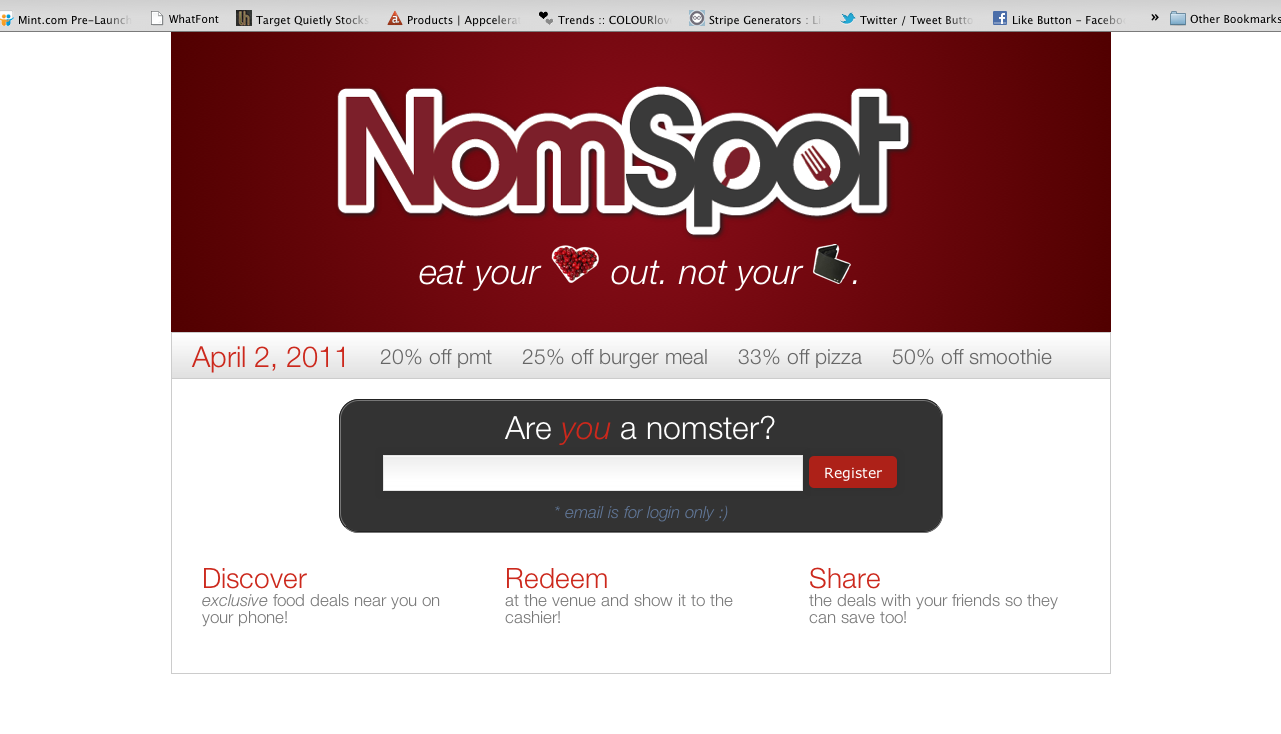
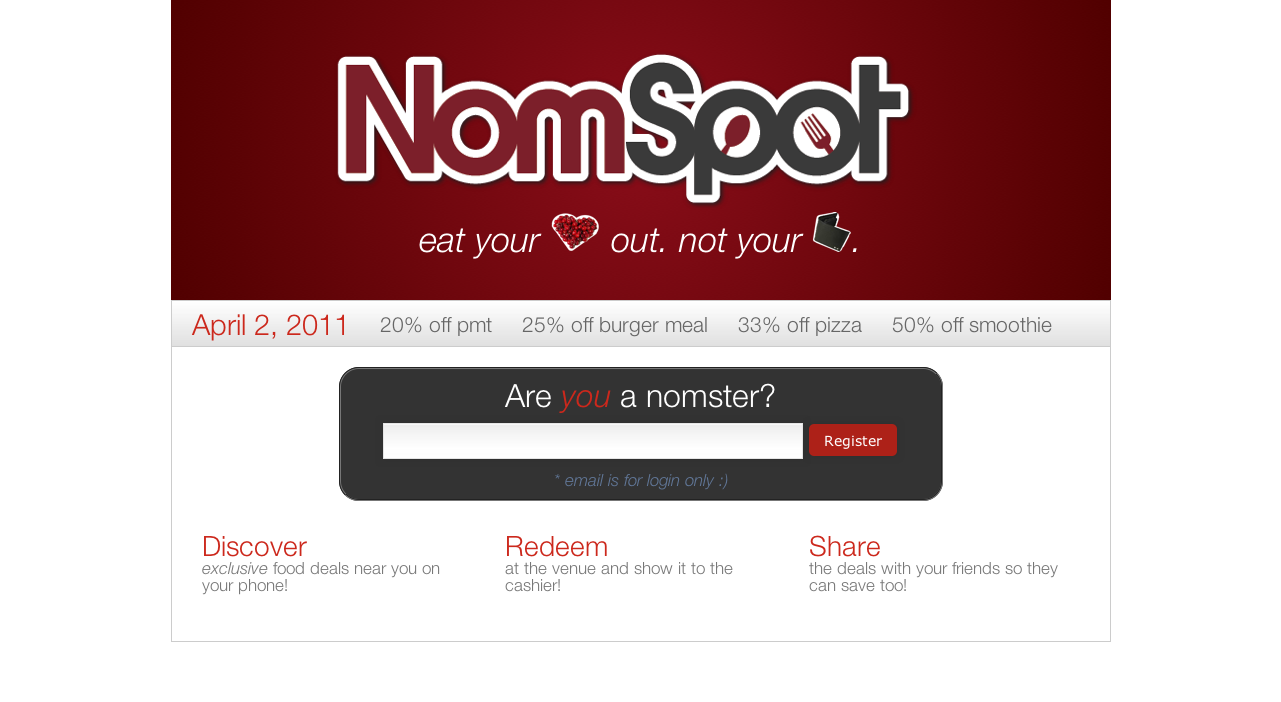
nomspot completed and validated

Changed region(s): [[0.1249, 0.4188, 0.8743, 0.8675], [0.0, 0.0, 1.0, 0.3889], [0.1561, 0.7479, 0.3435, 0.8675]]

diff --git a/nomspot.html b/nomspot.html
@@ -23,12 +23,15 @@
     <!-- Base Javascripts -->
     <script src="javascripts/lib/base.js"></script>
 
+    <!-- Add jQuery library -->
+    <script type="text/javascript" src="http://ajax.googleapis.com/ajax/libs/jquery/1.7/jquery.min.js"></script>
+    
     <!-- Fancybox Lightbox http://fancyapps.com/fancybox/#examples -->
     <script src="javascripts/lib/jquery.fancybox.js"></script>
 
 
     <!-- Your Javascripts -->
-    <script type="text/javascript" src="http://ajax.googleapis.com/ajax/libs/jquery/1.4.2/jquery.min.js"></script>
+    <!--<script type="text/javascript" src="http://ajax.googleapis.com/ajax/libs/jquery/1.4.2/jquery.min.js"></script>-->
     <script src="javascripts/main.js"></script>
 
   </head>
@@ -73,14 +76,16 @@
       
       <div id="content" class="row blurb">
         <div class="span4">
-          <h2>raveXchange</h2>
+          <h2>NomSpot</h2>
         </div>
         <div class="span8">
-          <p><span class="italic light_gray">August 2011</span></p>
-          <p><span class="italic light_gray">Front-end by Joseph Lee. Back-end by David Yoo.</span></p>
-          <p>RaveXchange is a site for buying, selling, and trading event tickets. 
-            The idea originated in early 2011 when there were too many scalpers and scammers on Craigslist.
-            </p>
+          <p><span class="italic light_gray">December 2010</span></p>
+          <p><span class="italic light_gray">Designed by Joseph Lee.</span></p>
+          <p>NomSpot is a location-based daily deals platform for food and social media 
+            platform for venues. It allows restaurants to post daily deals and interact with 
+            their customers through their venue page. NomSpot's aim was to become the premier 
+            site for venue-customer interaction and daily deals.
+          </p>
         </div>
         
       </div> <!-- end content -->
@@ -90,19 +95,18 @@
         <div class="span4">
           <ul class="media-grid">
             <li>
-              <a href="#">
-                <img class="thumbnail" src="images/exchange/landing.png" alt="">
+              <a class="fancybox" href="images/nomspot/nomspot_logo.png">
+                <img class="thumbnail uniheight3" src="images/nomspot/nomspot_logo.png" alt="">
               </a>
             </li>
           </ul>
         </div>
         
         <div class="span8">
-          <h3 class="light_gray small_marg">Landing Page</h3>
-          <p>I started with a minimalistic landing page inspired by Tumblr's very own home page.
-             Here users would be able to sign up or login. I decided to leave out any sort of 
-             call to action text or images because the site was still in the beta stages. 
-             This way most sign ups will be from referral and word of mouth.</p>
+          <h3 class="light_gray small_marg">Logo Design I</h3>
+          <p>Before designing the logo, there were a few requirements that I wanted to accomplish. 
+            The app itself was meant to be used by college students and so the logo must appeal to that target audience.
+            I wanted people to think of NomSpot as both a noun and a verb (1. a nomspot/place and 2. to spot food)</p>
         </div>
               
       </div> <!-- end row -->
@@ -112,47 +116,59 @@
         <div class="span4">
           <ul class="media-grid">
             <li>
-              <a href="#">
-                <img class="thumbnail" src="images/exchange/screen1.png" alt="">
+              <a class="fancybox" href="images/nomspot/nomspot_logo_bg.png">
+                <img class="thumbnail uniheight4" src="images/nomspot/nomspot_logo_bg.png" alt="">
               </a>
             </li>
           </ul>
         </div>
         
         <div class="span8">
-          <p>Fill this in!</p>
+          <h3 class="light_gray small_marg">Logo Design II</h3>
+          <p>After several redesigns, I arrived at the logo above but there was one more requirement I had achieved.
+            I wanted to make NomSpot something that's distinct and instantly recognizable, like Yelp's vinyl decals on store windows.
+            The end result is a maroon background that will be universal to the logo.
+          </p>
         </div>
               
       </div> <!-- end row -->
       
       <div class="row">
         
-        <div class="span12">
+        <div class="span4">
           <ul class="media-grid">
             <li>
-              <a href="#">
-                <img class="thumbnail uniheight1" src="images/exchange/screen2.png" alt="">
-              </a>
-            </li>
-            
-            <li>
-              <a href="#">
-                <img class="thumbnail uniheight1" src="images/exchange/screen4.png" alt="">
-              </a>
-            </li>
-            
-            <li>
-              <a href="#">
-                <img class="thumbnail" src="images/exchange/screen3.png" alt="">
-              </a>
-              <a href="#">
-                <img class="thumbnail" src="images/exchange/screen5.png" alt="">
-              </a>
-              <a href="#">
-                <img class="thumbnail uniheight2" src="images/exchange/screen6.png" alt="">
+              <a class="fancybox" href="images/nomspot/screen1.png">
+                <img class="thumbnail uniheight6" src="images/nomspot/screen1.png" alt="">
               </a>
             </li>
           </ul>
+        </div>
+        
+        <div class="span8">
+          <h3 class="light_gray small_marg">Landing Page I</h3>
+          <p>This was my first attempt at the landing page. Pretty plain and not very good looking...</p>
+        </div>
+              
+      </div> <!-- end row -->
+      
+      <div class="row">
+        
+        <div class="span4">
+          <ul class="media-grid">
+            <li>
+              <a class="fancybox" href="images/nomspot/screen2.png">
+                <img class="thumbnail uniheight5" src="images/nomspot/screen2.png" alt="">
+              </a>
+            </li>
+          </ul>
+        </div>
+        
+        <div class="span8">
+          <h3 class="light_gray small_marg">Landing Page II</h3>
+          <p>Here it is again after going with an all red background color. 
+            This design incorporates the logo into the background and also draws more attention
+            to the center box where people can sign up.</p>
         </div>
               
       </div> <!-- end row -->

diff --git a/stylesheets/main.css b/stylesheets/main.css
@@ -22,13 +22,17 @@ a:hover.dark_blue { color: #0069D6; }
 .dark_blue { color: #00438a; }
 .thumbnail { width: 210px; }
 .blurb { margin-bottom: 20px; }
-.small_marg { margin-bottom: 5px; }
+.small_marg { margin-bottom: 10px; }
 .italic { font-style: italic; }
 .uniheight1 { height: 250px; }
 .uniheight2 { height: 80px; }
+.uniheight3 { padding-top: 30px; padding-bottom: 30px; }
+.uniheight4 { padding-top: 10px; padding-bottom: 10px; }
+.uniheight5 { padding-top: 5px; padding-bottom: 5px; }
+.uniheght6 { padding-top: 2px; padding-bottom: 2px; }
 
 #header { margin-top: 50px; margin-bottom: 50px; }
-#banner { margin-top: 100px; margin-bottom: 70px; }
+#banner { margin-top: 90px; margin-bottom: 70px; }
 #social h2 { margin-bottom: 10px; }
 #content p { line-height: 110%; margin-bottom: 5px; padding-right: 20px; }
 #content h2 { margin-bottom: 10px; }
@@ -40,4 +44,4 @@ a:hover.dark_blue { color: #0069D6; }
 	margin-top: 45px;
 	!height: 20px;
 }
-#footer p { color: #00438a; }
+#footer p { color: #bbb; }

diff --git a/javascripts/main.js b/javascripts/main.js
@@ -19,12 +19,8 @@ $(document).ready(function() {
 });
 
 $(document).ready(function() {
-
-  /*Put your Javascript code here*/
-
-  /*
-    Simple image gallery. Use default settings
-  */
-  $('.fancybox').fancybox();
-
+	$(".fancybox").fancybox({
+		openEffect	: 'none',
+		closeEffect	: 'none'
+	});
 });
